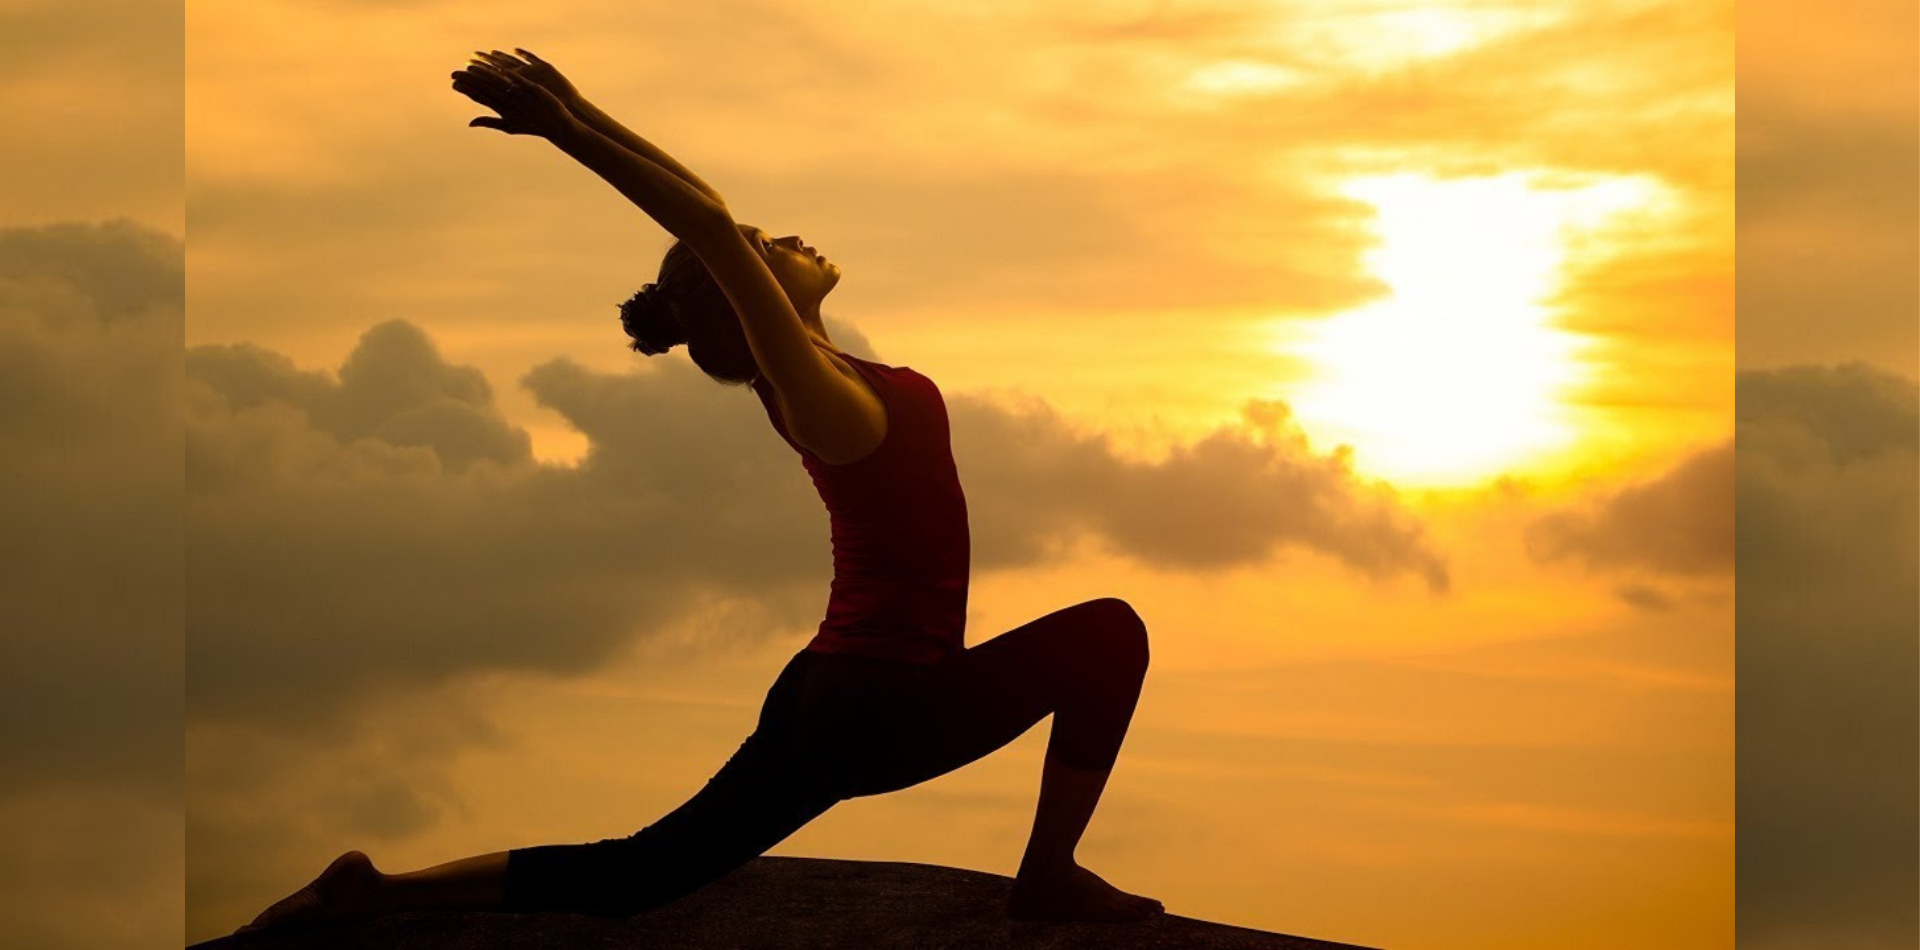
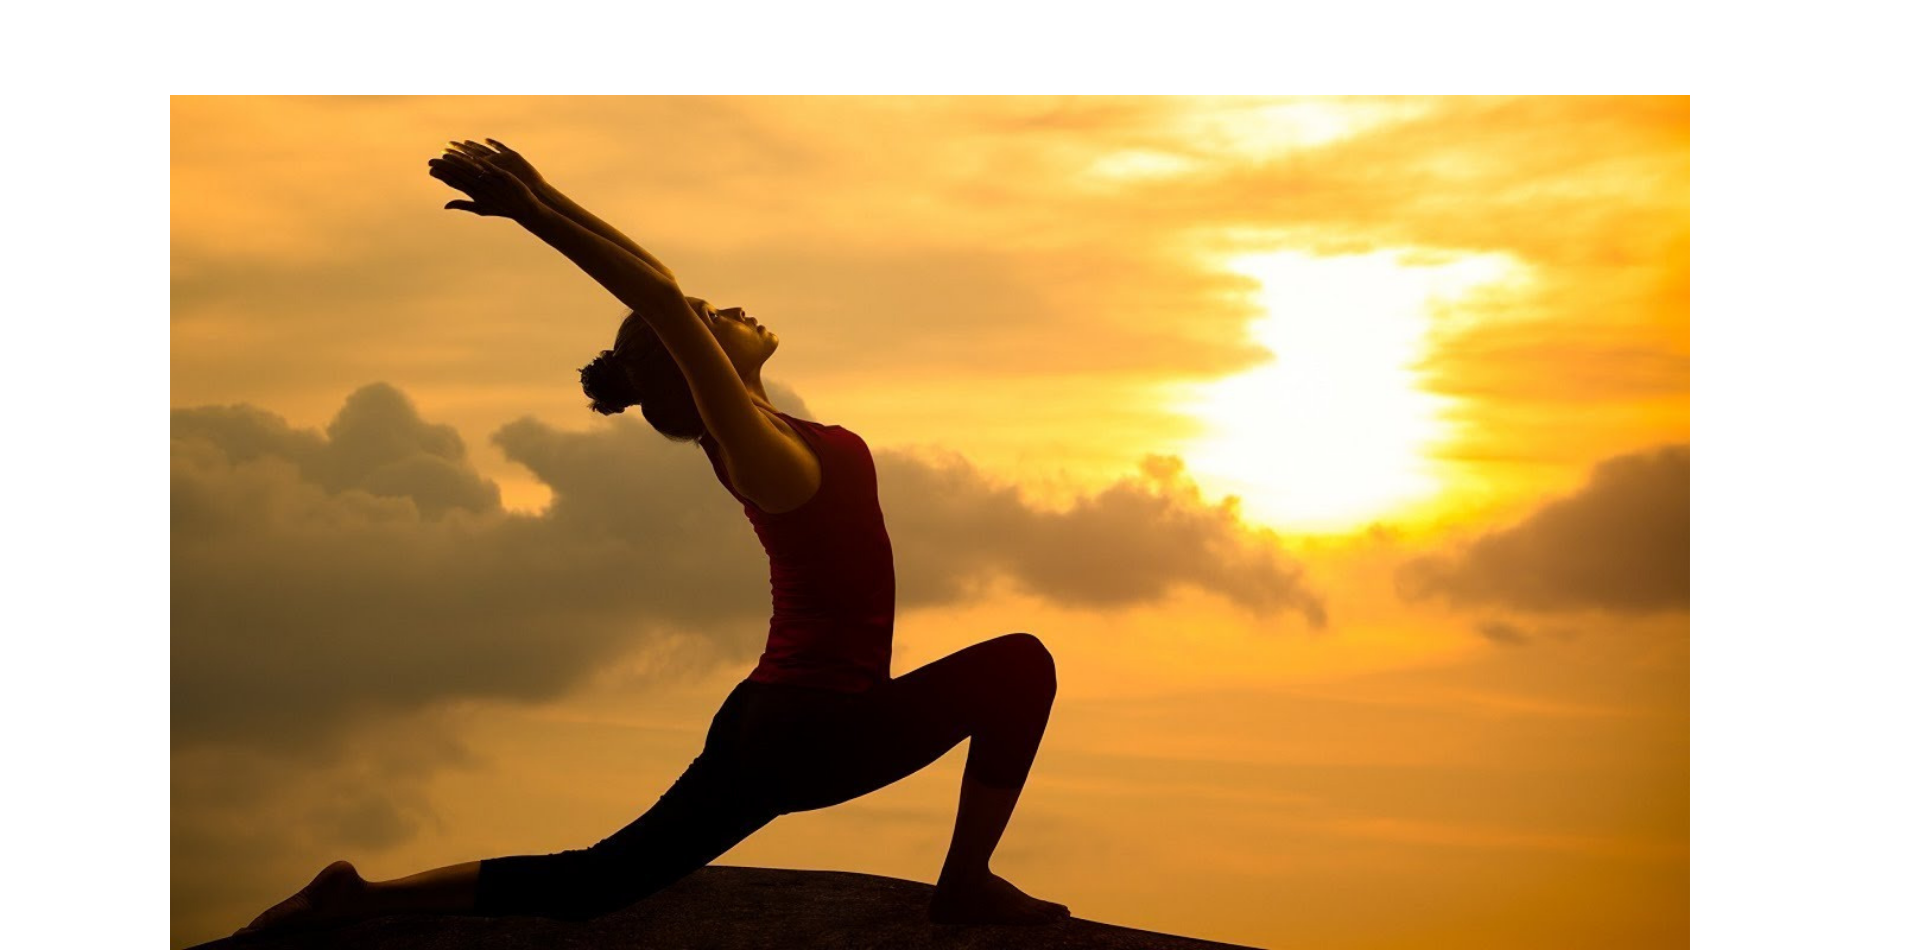
recommit
recommit

diff --git a/gnanostavam/omb/index1.html b/gnanostavam/omb/index1.html
@@ -162,7 +162,7 @@
 
         <!-- Slider
         ============================================= -->
-        <section id="slider" class="slider-element hero-diagonal bg-color mainimage" style="background:url('images/slider/hero-5.2.png') no-repeat center;">
+        <section id="slider" class="slider-element hero-diagonal bg-color mainimage" style="background:url('images/slider/hero-5.3.png') no-repeat center;">
             <div class="container" style="z-index: 2;">
                 <div class="row justify-content-between align-items-center">
                     <div class="col-lg-6 col-md-7 dark mb-5 mb-md-0 py-5">
